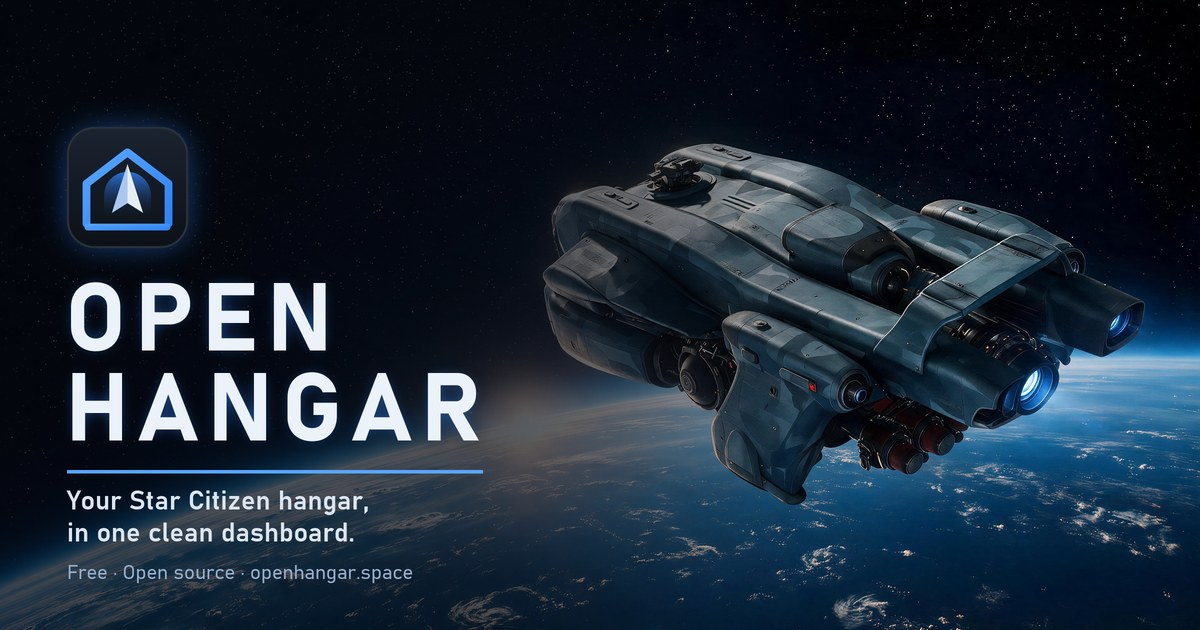
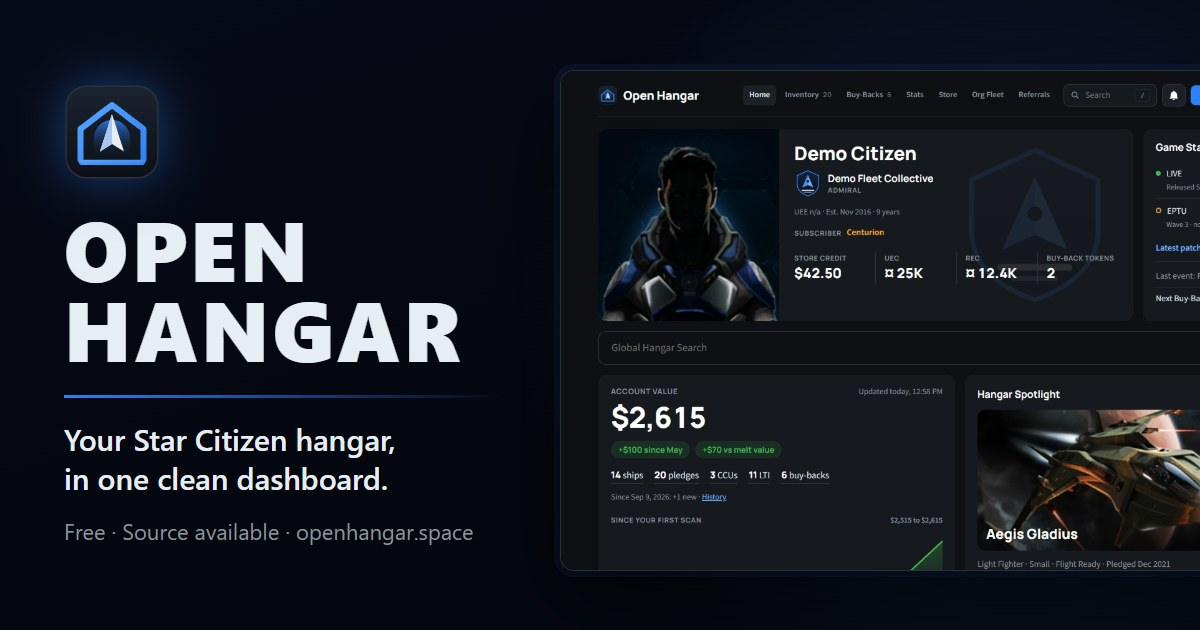
site: drop the AI hero art for a drawn starfield and planet horizon; link preview from the real Home screen
- hero is CSS only (stars, horizon glow), hero images removed
- og.jpg rebuilt from the logo and the demo Home screenshot (scripts/og), says Source available
- fix list #7: scan progress moves out of the Citizen Card

diff --git a/site/style.css b/site/style.css
@@ -32,39 +32,64 @@ a {
   padding: 0 16px;
 }
 
-/* Hero: the Starfarer over a planet (docs/brand/draco-foundry), darkened in
-   the middle so the title and buttons stay readable. The ship sits right of
-   centre; on phones it slides mostly out of frame, which is fine. */
+/* Hero: drawn in CSS, no photo (owner, 2026-09-30: no AI art). Deep space, a sparse
+   starfield (two offset tiles of tiny dots), and a blue planet horizon glowing up
+   from below the fold. */
 .hero {
   position: relative;
+  overflow: hidden;
   background-color: #05070f;
   background-image:
-    radial-gradient(ellipse 48% 70% at 50% 48%, rgba(5, 7, 15, 0.85), rgba(5, 7, 15, 0.2) 80%),
-    linear-gradient(180deg, rgba(5, 7, 15, 0.25), rgba(5, 7, 15, 0.1) 60%, var(--bg)),
-    url('img/hero-1920.jpg');
-  background-image:
-    radial-gradient(ellipse 48% 70% at 50% 48%, rgba(5, 7, 15, 0.85), rgba(5, 7, 15, 0.2) 80%),
-    linear-gradient(180deg, rgba(5, 7, 15, 0.25), rgba(5, 7, 15, 0.1) 60%, var(--bg)),
-    image-set(
-      url('img/hero-1920.webp') type('image/webp'),
-      url('img/hero-1920.jpg') type('image/jpeg')
-    );
-  background-size: cover;
-  background-position: 70% 55%;
+    radial-gradient(1px 1px at 23px 41px, rgba(255, 255, 255, 0.7), transparent),
+    radial-gradient(1px 1px at 131px 17px, rgba(255, 255, 255, 0.5), transparent),
+    radial-gradient(1.5px 1.5px at 187px 133px, rgba(200, 220, 255, 0.8), transparent),
+    radial-gradient(1px 1px at 71px 173px, rgba(255, 255, 255, 0.45), transparent),
+    radial-gradient(1px 1px at 229px 89px, rgba(255, 255, 255, 0.55), transparent),
+    radial-gradient(1px 1px at 47px 107px, rgba(255, 255, 255, 0.35), transparent),
+    radial-gradient(1.5px 1.5px at 97px 59px, rgba(255, 255, 255, 0.6), transparent),
+    radial-gradient(1px 1px at 163px 211px, rgba(200, 220, 255, 0.5), transparent),
+    linear-gradient(180deg, #05070f 0%, #070b18 60%, #0a1226 100%);
+  background-size:
+    250px 250px,
+    250px 250px,
+    250px 250px,
+    250px 250px,
+    330px 330px,
+    330px 330px,
+    330px 330px,
+    330px 330px,
+    100% 100%;
   border-bottom: 1px solid var(--line);
-  padding: 96px 0 88px;
+  padding: 96px 0 120px;
   text-align: center;
 }
-@media (min-width: 1600px) {
-  .hero {
-    background-image:
-      radial-gradient(ellipse 40% 70% at 50% 48%, rgba(5, 7, 15, 0.85), rgba(5, 7, 15, 0.2) 80%),
-      linear-gradient(180deg, rgba(5, 7, 15, 0.25), rgba(5, 7, 15, 0.1) 60%, var(--bg)),
-      image-set(
-        url('img/hero-2560.webp') type('image/webp'),
-        url('img/hero-1920.jpg') type('image/jpeg')
-      );
-  }
+/* The planet: a huge circle whose top edge peeks in at the bottom, lit along its rim. */
+.hero::before,
+.hero::after {
+  content: '';
+  position: absolute;
+  left: 50%;
+  width: max(1800px, 160vw);
+  aspect-ratio: 1;
+  translate: -50% 0;
+  border-radius: 50%;
+  pointer-events: none;
+}
+.hero::before {
+  top: calc(100% - 70px);
+  background: radial-gradient(circle at 50% 0%, #10244a 0%, #0b1733 18%, #070d1e 45%);
+  box-shadow:
+    0 -2px 0 rgba(88, 166, 255, 0.55),
+    0 -18px 60px rgba(47, 129, 247, 0.35),
+    0 -60px 160px rgba(47, 129, 247, 0.18);
+}
+.hero::after {
+  top: calc(100% - 72px);
+  background: radial-gradient(ellipse 30% 3% at 50% 0%, rgba(160, 205, 255, 0.55), transparent);
+}
+.hero .wrap {
+  position: relative;
+  z-index: 1;
 }
 .hero h1,
 .hero .tagline {

diff --git a/scripts/og/og.html b/scripts/og/og.html
@@ -1,0 +1,82 @@
+<!doctype html>
+<!-- The link preview (site/img/og.jpg, 1200×630) that Reddit, Discord and Spectrum show.
+     Real UI only, no AI art: the logo, the name, and the Home screenshot of the fictional
+     demo account. Rendered by scripts/og/render.mjs. -->
+<html>
+  <head>
+    <meta charset="utf-8" />
+    <style>
+      * {
+        box-sizing: border-box;
+        margin: 0;
+      }
+      body {
+        width: 1200px;
+        height: 630px;
+        overflow: hidden;
+        font-family: 'Segoe UI', system-ui, sans-serif;
+        color: #e6edf3;
+        background:
+          radial-gradient(ellipse 60% 90% at 85% 50%, rgba(47, 129, 247, 0.22), transparent 70%),
+          linear-gradient(160deg, #070b18, #05070f 60%);
+        position: relative;
+      }
+      .left {
+        position: absolute;
+        left: 64px;
+        top: 0;
+        bottom: 0;
+        width: 440px;
+        display: flex;
+        flex-direction: column;
+        justify-content: center;
+      }
+      .left img {
+        width: 96px;
+        height: 96px;
+        filter: drop-shadow(0 0 24px rgba(47, 129, 247, 0.45));
+      }
+      h1 {
+        margin-top: 28px;
+        font: 800 84px/0.95 'Segoe UI', system-ui, sans-serif;
+        letter-spacing: 0.04em;
+      }
+      .rule {
+        margin: 28px 0 22px;
+        height: 3px;
+        width: 100%;
+        background: linear-gradient(90deg, #2f81f7, rgba(47, 129, 247, 0));
+      }
+      p {
+        font: 600 30px/1.3 'Segoe UI', system-ui, sans-serif;
+      }
+      small {
+        display: block;
+        margin-top: 18px;
+        font-size: 22px;
+        color: #8b949e;
+      }
+      .shot {
+        position: absolute;
+        left: 560px;
+        top: 70px;
+        width: 800px;
+        border-radius: 14px;
+        border: 1px solid #2a3139;
+        box-shadow:
+          0 30px 80px rgba(0, 0, 0, 0.6),
+          0 0 0 6px rgba(47, 129, 247, 0.08);
+      }
+    </style>
+  </head>
+  <body>
+    <div class="left">
+      <img src="../../site/icon.svg" alt="" />
+      <h1>OPEN<br />HANGAR</h1>
+      <div class="rule"></div>
+      <p>Your Star Citizen hangar,<br />in one clean dashboard.</p>
+      <small>Free · Source available · openhangar.space</small>
+    </div>
+    <img class="shot" src="../../docs/store-assets/screenshot-2-home.png" alt="" />
+  </body>
+</html>

diff --git a/site/index.html b/site/index.html
@@ -23,7 +23,7 @@
     <meta property="og:image:height" content="630" />
     <meta
       property="og:image:alt"
-      content="Open Hangar: a Starfarer cruising over a planet, with the Open Hangar logo"
+      content="Open Hangar: the logo next to the Home page of the dashboard, showing a demo account"
     />
     <meta name="twitter:card" content="summary_large_image" />
     <meta name="twitter:image" content="https://openhangar.space/img/og.jpg" />

diff --git a/docs/REDESIGN-0.3.md b/docs/REDESIGN-0.3.md
@@ -190,6 +190,14 @@ Clear All) either way. Picking keeps the sidebar open (never closes on a click).
    "Ships $X · CCUs $Y · Other $Z · Store Credit $W". The chart and "since <month>" use
    the same rules (#4); snapshots start saving Store Credit, and older points without it
    say so in their tooltip. Update the Stats → Value note text to match.
+7. **Scan progress text breaks the Citizen Card.** "Scanning buy-backs… page 8, 800
+   items" shows as a line under the portrait, which pushes the card around and cuts
+   into the portrait (seen on first scan and on a normal rescan). Fix: the progress
+   line never lives in the Citizen Card. First scan: it goes in the middle of the
+   welcome card, big (the "Scan All Now" button becomes a progress bar with the step
+   and page count under it, e.g. "Buy-backs · page 8 · 800 items", then "Hangar",
+   etc.). Later scans: the top-bar Scan button's fill already shows progress; the detail
+   line goes in its tooltip and the ▾ menu, nothing on the page moves.
 
 ## Scheduled Alongside
 
